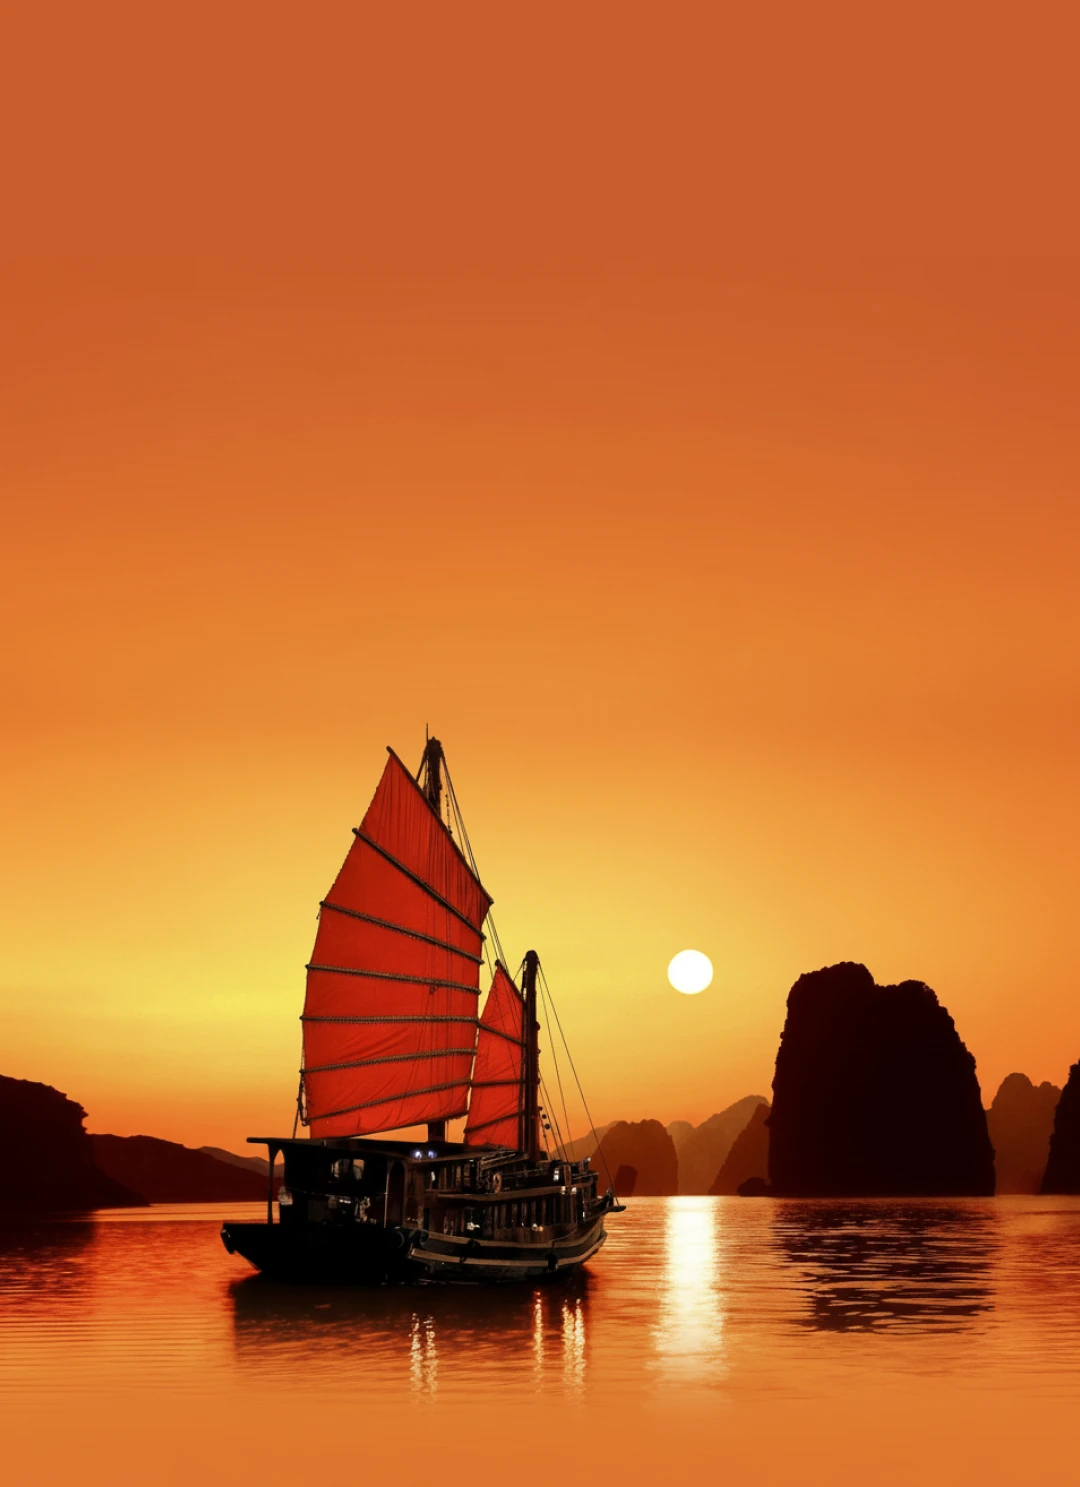
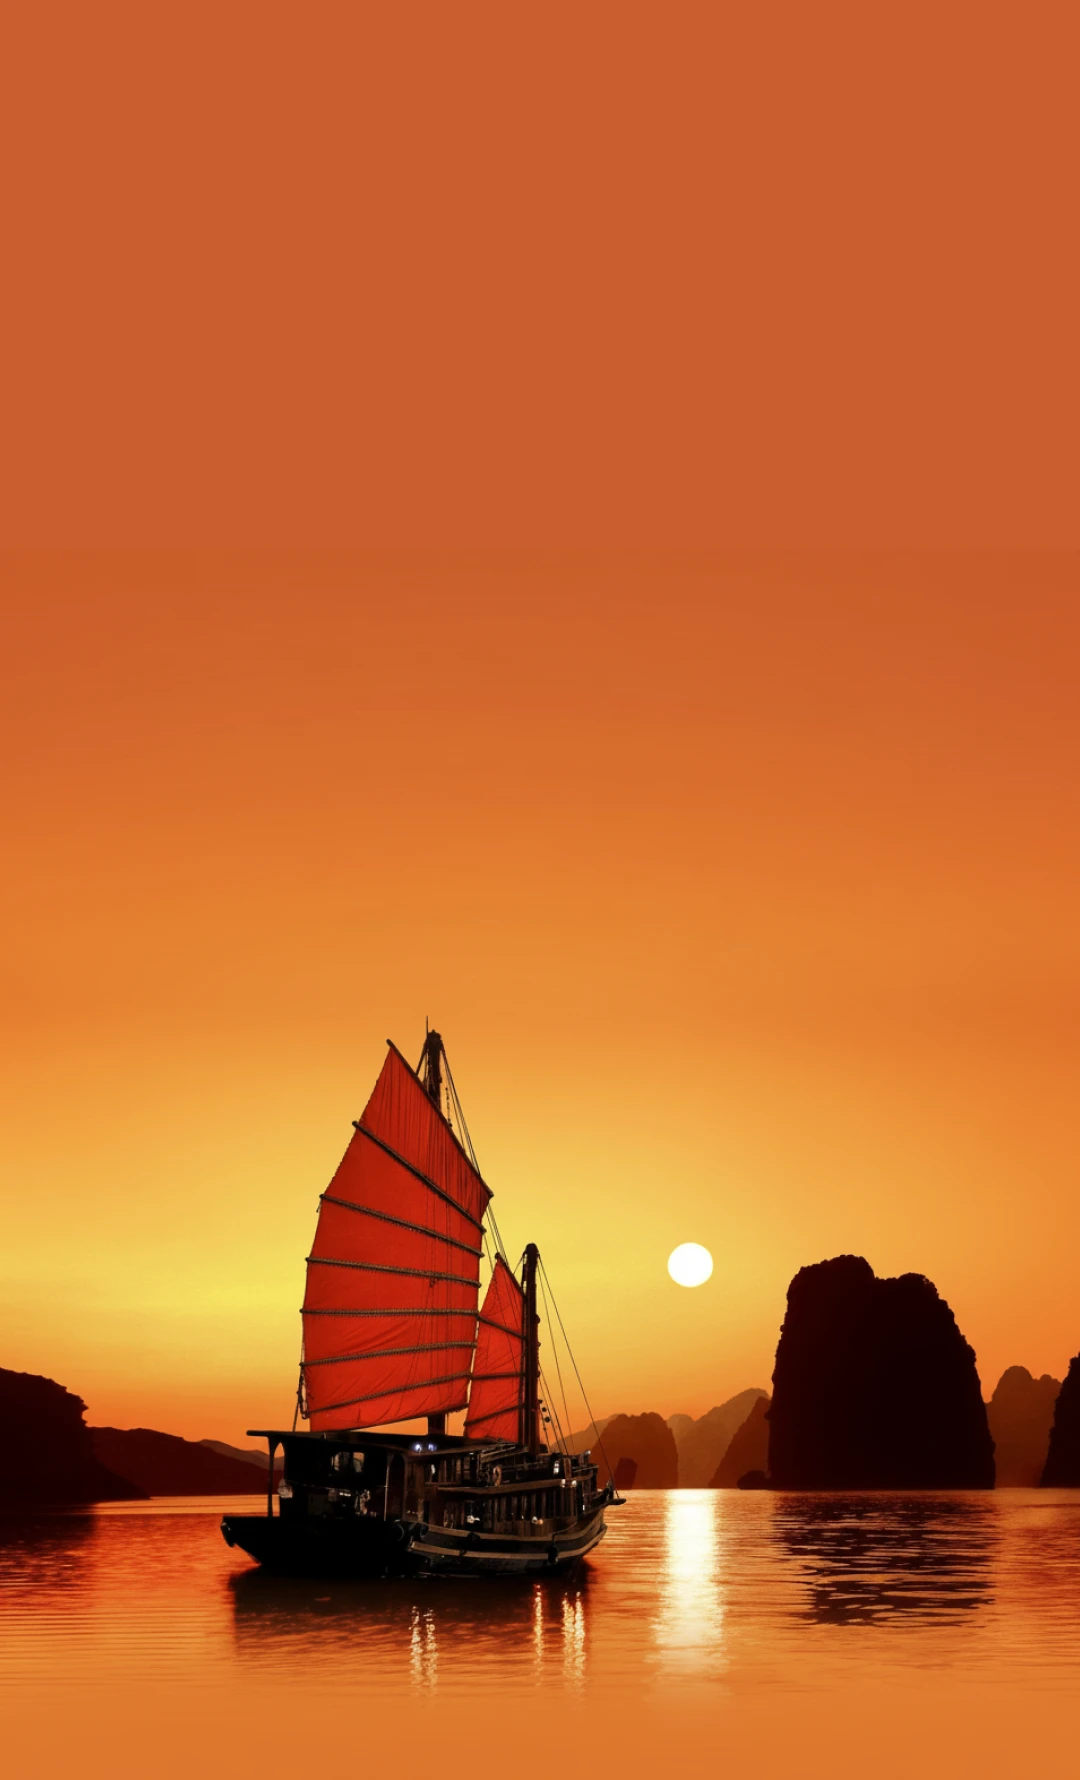
lecture

Changed region(s): [[0.0, 0.495, 1.0, 0.959], [0.3667, 0.3712, 0.6111, 0.464]]

diff --git a/src/pages/sections/SectionFeaturesLecture.tsx b/src/pages/sections/SectionFeaturesLecture.tsx
@@ -1,0 +1,78 @@
+// src/pages/sections/SectionFeatures.tsx
+
+import React from 'react';
+import { Box, Typography, Grid, Paper } from '@mui/material';
+
+// Определяем типы для данных
+interface Feature {
+  name: string;
+  description: string;
+  icon: React.ElementType;
+}
+
+// Интерфейс для пропсов
+interface SectionFeaturesProps {
+  features: Feature[];
+}
+
+const SectionFeatures: React.FC<SectionFeaturesProps> = ({ features }) => (
+  <Box
+    sx={{
+      mt: 4,
+      maxWidth: 'lg',
+      mx: 'auto',
+      display: 'grid',
+      gridTemplateColumns: { xs: '1fr 1fr 1fr', md: '1fr 1fr 1fr' },
+      gap: 2,
+      textAlign: 'center',
+    }}
+  >
+    {features.map((feature) => {
+      const IconComponent = feature.icon; // ✅ Правильно: внутри callback функции
+
+      return (
+        <Grid item xs={12} sm={12} key={feature.name}>
+          <Box
+            sx={{
+              border: (theme) => `1px solid ${theme.palette.divider}`,
+              borderRadius: 2,
+              boxShadow: 1,
+            }}
+          >
+            <Paper
+              elevation={0}
+              sx={{
+                pt: 6,
+                border: 'none',
+                backgroundColor: '#252525',
+                p: 2,
+                borderRadius: 2,
+                height: '100%',
+                display: 'flex',
+                flexDirection: 'column',
+                alignItems: 'center',
+                justifyContent: 'center',
+                overflow: 'break-word',
+                gap: 1,
+              }}
+            >
+              <IconComponent
+                sx={{
+                  fontSize: 24,
+                  color: 'primary',
+                  mb: 0,
+                }}
+              />
+              <Typography variant="body1" sx={{ fontWeight: 900 }}>
+                {feature.name}
+              </Typography>
+              <Typography variant="caption">{feature.description}</Typography>
+            </Paper>
+          </Box>
+        </Grid>
+      );
+    })}
+  </Box>
+);
+
+export default SectionFeatures;

diff --git a/src/pages/Lecture.tsx b/src/pages/Lecture.tsx
@@ -10,10 +10,14 @@ import SectionHero from './sections/SectionHeroLecture';
 import SectionHighlights from './sections/SectionHighlightsLecture';
 import SectionGuide from './sections/SectionGuideLecture';
 import SectionContact from './sections/SectionContact';
+import SectionFeatures from './sections/SectionFeaturesLecture';
 
 // ✅ ИМПОРТЫ ТОЛЬКО ДЛЯ SVG И METADATA
 import logoSvg from '../assets/img/logo.svg';
 import ogImage from '../assets/img/og-image.png';
+import AccessTimeIcon from '@mui/icons-material/AccessTime';
+import LocationOn from '@mui/icons-material/LocationOn';
+import Paid from '@mui/icons-material/Paid';
 
 // ===== ТИПЫ =====
 interface Product {
@@ -24,7 +28,14 @@ interface Product {
   imageAlt: string;
 }
 
+interface Feature {
+  name: string;
+  description: string;
+  icon: React.ElementType; // ✅ React компонент
+}
+
 interface HeroContent {
+  time: string;
   label: string;
   title: string;
   description: string;
@@ -35,18 +46,37 @@ interface HeroContent {
 // ===== КОНСТАНSTЫ С КОНТЕНТОМ =====
 
 const heroContent: HeroContent = {
-  label: 'лекция в дананге',
+  time: '13 декабря 19:00',
+  label: 'Открытая встреча‑лекция',
   title: 'Вьетнам',
   description: 'История | Традиция | Культура',
   buttonText: 'Записаться',
   titleSize: { xs: '4rem', sm: '2rem', md: '2rem' },
 };
 
+const features: Feature[] = [
+  {
+    name: '1ч.',
+    description: 'Время лекции',
+    icon: AccessTimeIcon, // ⏱️ Часы
+  },
+  {
+    name: 'Дананг',
+    description: 'Место проведения',
+    icon: LocationOn, // 👥 Люди
+  },
+  {
+    name: '100kvnd',
+    description: 'Стоимость посещения',
+    icon: Paid, // 🚶 Ходьба
+  },
+];
+
 // ✅ ИСПОЛЬЗУЙ STRING ПУТИ ВМЕСТО ИМПОРТОВ
 const products: Product[] = [
   {
     id: 1,
-    name: 'История Вьетнама',
+    name: 'История',
     color:
       'От древних времен, через тысячелетнее китайское влияние до французской колонии и войн XX века.',
     imageSrc: 'pictures/l_1.webp',
@@ -54,7 +84,7 @@ const products: Product[] = [
   },
   {
     id: 2,
-    name: 'Семейные традиции ',
+    name: 'Традиции ',
     color:
       'Что для вьетнамцев значит семья, уважение к старшим и почитание традиций предков.',
     imageSrc: 'pictures/l_2.webp',
@@ -62,15 +92,15 @@ const products: Product[] = [
   },
   {
     id: 3,
-    name: 'Язык и жесты',
+    name: 'Язык',
     color:
-      'Вьетнамский язык: почему тональные звуки имеют огромное значение в общении.',
+      'Особенности языка: почему тональные звуки имеют такое значение в общении.',
     imageSrc: 'pictures/l_3.webp',
     imageAlt: 'Дом Тан Ки',
   },
   {
     id: 4,
-    name: 'Религия и культы',
+    name: 'Религия',
     color:
       'Как буддизм, даосизм, конфуцианство и культ предков мирно сосуществуют.',
     imageSrc: 'pictures/l_4.webp',
@@ -171,7 +201,7 @@ const Lecture: React.FC = () => {
           pb: 8,
           // ✅ WebP с fallback через @supports
           backgroundImage: `url(/img/tours/bg4.webp), linear-gradient(180deg, #DD752E 0%, #DD752E 100%)`,
-          backgroundPosition: 'center 0px, center',
+          backgroundPosition: 'center -70px, center',
           backgroundSize: 'contain, cover',
           backgroundRepeat: 'no-repeat, no-repeat',
 
@@ -182,11 +212,13 @@ const Lecture: React.FC = () => {
         }}
       >
         <Box sx={{ textAlign: 'center', pt: 2 }}>
-          <img src={logoSvg} width={40} alt="Логотип" className="logo" />
+          <a href="https://myhoian.app/">
+            <img src={logoSvg} width={40} alt="Логотип" className="logo" />
+          </a>
         </Box>
 
         <SectionHero content={heroContent} handleOpen={handleOpen} />
-        {/*<SectionFeatures features={features} />*/}
+        <SectionFeatures features={features} />
         <SectionHighlights products={products} />
         {/* ✅ STRING путь для profilePicture */}
         <SectionGuide handleOpen={handleOpen} />

diff --git a/src/pages/sections/SectionHeroLecture.tsx b/src/pages/sections/SectionHeroLecture.tsx
@@ -1,7 +1,8 @@
 import React from 'react';
-import { Box, Typography, Button } from '@mui/material';
+import { Box, Typography, Button, Divider, Chip } from '@mui/material';
 
 interface HeroContent {
+  time: string;
   label: string;
   title: string;
   description: string;
@@ -27,20 +28,29 @@ const SectionHero: React.FC<SectionHeroProps> = ({ content, handleOpen }) => {
         flexDirection: 'column',
         gap: 0,
         mt: 1,
-        height: '400px',
+        height: '410px',
         textAlign: 'center',
       }}
     >
-      <Box
+      <Typography
+        variant="body1"
+        sx={{ mb: 0, textTransform: 'uppercase', fontWeight: 600 }}
+      >
+        {content.time}
+      </Typography>
+
+      <Typography
+        variant="body2"
         sx={{
-          fontWeight: 600,
-          fontSize: 'sm',
+          fontSize: 'lg',
+          color: 'gray.500',
           textTransform: 'uppercase',
-          letterSpacing: 0.5,
+          mb: 0,
+          width: '100%',
         }}
       >
         {content.label}
-      </Box>
+      </Typography>
 
       <Typography
         component="h1"
@@ -51,6 +61,7 @@ const SectionHero: React.FC<SectionHeroProps> = ({ content, handleOpen }) => {
             md: titleSize.md,
           },
           fontWeight: 700,
+
           textTransform: 'uppercase',
           letterSpacing: 1,
           margin: 0,
@@ -75,8 +86,12 @@ const SectionHero: React.FC<SectionHeroProps> = ({ content, handleOpen }) => {
 
       <Button
         onClick={handleOpen}
-        sx={{ borderColor: '#180000', backgroundColor: '#180000' }}
-        size="small"
+        sx={{
+          borderColor: '#252525',
+          backgroundColor: '#252525',
+          color: '#fff',
+        }}
+        size="medium"
         variant="outlined"
       >
         {content.buttonText}

diff --git a/src/pages/sections/SectionHighlightsLecture.tsx b/src/pages/sections/SectionHighlightsLecture.tsx
@@ -16,7 +16,7 @@ interface SectionHighlightsProps {
 
 const SectionHighlights: React.FC<SectionHighlightsProps> = ({ products }) => (
   <Box>
-    <Box sx={{ maxWidth: 'lg', mx: 'auto', pt: 4, pb: 2 }}>
+    <Box sx={{ maxWidth: 'lg', mx: 'auto', pt: 6, pb: 2 }}>
       <Box
         sx={{
           display: 'flex',
@@ -52,9 +52,10 @@ const SectionHighlights: React.FC<SectionHighlightsProps> = ({ products }) => (
             <Box
               sx={{
                 mb: 1,
-                backgroundColor: '#A76126',
+                backgroundColor: '#E7782B',
                 borderRadius: '8px',
                 boxShadow: '0 4px 8px rgba(0, 0, 0, 0.1)',
+                border: '1px solid rgba(255, 255, 255, 0.12)',
               }}
             >
               <OptimizedImage
@@ -64,18 +65,23 @@ const SectionHighlights: React.FC<SectionHighlightsProps> = ({ products }) => (
                 height={280}
                 loading="lazy"
                 sx={{
-                  height: { xs: 140, lg: 180, xl: 200 },
+                  height: {
+                    xs: 140,
+                    lg: 180,
+                    xl: 200,
+                    borderRadius: '8px 8px 0 0',
+                  },
                 }}
               />
 
               <Typography
                 variant="body2"
-                sx={{ mt: 2, mb: 1, pl: 2, fontWeight: 600 }}
+                sx={{ mt: 2, mb: 1, pl: 1.5, fontWeight: 600 }}
               >
                 {product.name}
               </Typography>
               <Typography
-                sx={{ pl: 2, pr: 2, pb: 2, display: 'block' }}
+                sx={{ pl: 1.5, pr: 1, pb: 2, display: 'block' }}
                 variant="caption"
               >
                 {product.color}
@@ -89,7 +95,7 @@ const SectionHighlights: React.FC<SectionHighlightsProps> = ({ products }) => (
     <Box>
       <Divider sx={{ mt: 2, mb: 8 }}>
         <Chip
-          sx={{ backgroundColor: '#A76126', color: '#fff' }}
+          sx={{ backgroundColor: '#252525', color: '#fff' }}
           label="и это еще далеко не все"
           size="medium"
         />

diff --git a/src/pages/sections/SectionGuideLecture.tsx b/src/pages/sections/SectionGuideLecture.tsx
@@ -26,7 +26,7 @@ const SectionGuide: React.FC<SectionGuideProps> = ({ handleOpen }) => (
       elevation={0}
       sx={{
         border: 'none',
-        backgroundColor: 'gray.50',
+        backgroundColor: '#252525',
         p: 4,
         mb: 2,
         borderRadius: 2,
@@ -81,7 +81,7 @@ const SectionGuide: React.FC<SectionGuideProps> = ({ handleOpen }) => (
       <Button onClick={handleOpen} size="medium" variant="contained">
         Записаться
       </Button>
-      <Typography variant="caption">
+      <Typography variant="caption" sx={{ mt: 1 }}>
         Скидка 50% при бронировании до 12 декабря
       </Typography>
     </Paper>
@@ -89,14 +89,17 @@ const SectionGuide: React.FC<SectionGuideProps> = ({ handleOpen }) => (
     <Box>
       <Divider sx={{ mt: 8 }}>
         <Chip
-          sx={{ backgroundColor: '#A76126', color: '#fff' }}
+          sx={{ backgroundColor: '#252525', color: '#fff' }}
           label="Локация"
           size="medium"
         />
       </Divider>
 
-      <Typography variant="h6" sx={{ mb: 2, mt: 2, textAlign: 'center' }}>
-        NU Arrows Cafe | Danang
+      <Typography
+        variant="h6"
+        sx={{ mb: 2, mt: 2, textAlign: 'center', color: '#fff' }}
+      >
+        Danang | NU Arrows Cafe | 19:00
       </Typography>
       <Box sx={{ borderRadius: 2, overflow: 'hidden', boxShadow: 3 }}>
         <iframe
@@ -107,7 +110,7 @@ const SectionGuide: React.FC<SectionGuideProps> = ({ handleOpen }) => (
           allowFullScreen
           loading="lazy"
           referrerPolicy="no-referrer-when-downgrade"
-          title="Google Maps Location"
+          title=""
         />
       </Box>
     </Box>

diff --git a/src/pages/sections/ModalContactLecture.tsx b/src/pages/sections/ModalContactLecture.tsx
@@ -75,6 +75,13 @@ const ModalContact: React.FC<ModalContactProps> = ({ open, handleClose }) => {
         >
           Instagram
         </Button>
+        <Typography
+          id="modal-modal-description"
+          variant="caption"
+          sx={{ mt: 2, display: 'block' }}
+        >
+          Просто напишите личное сообщение
+        </Typography>
       </Box>
     </Modal>
   );